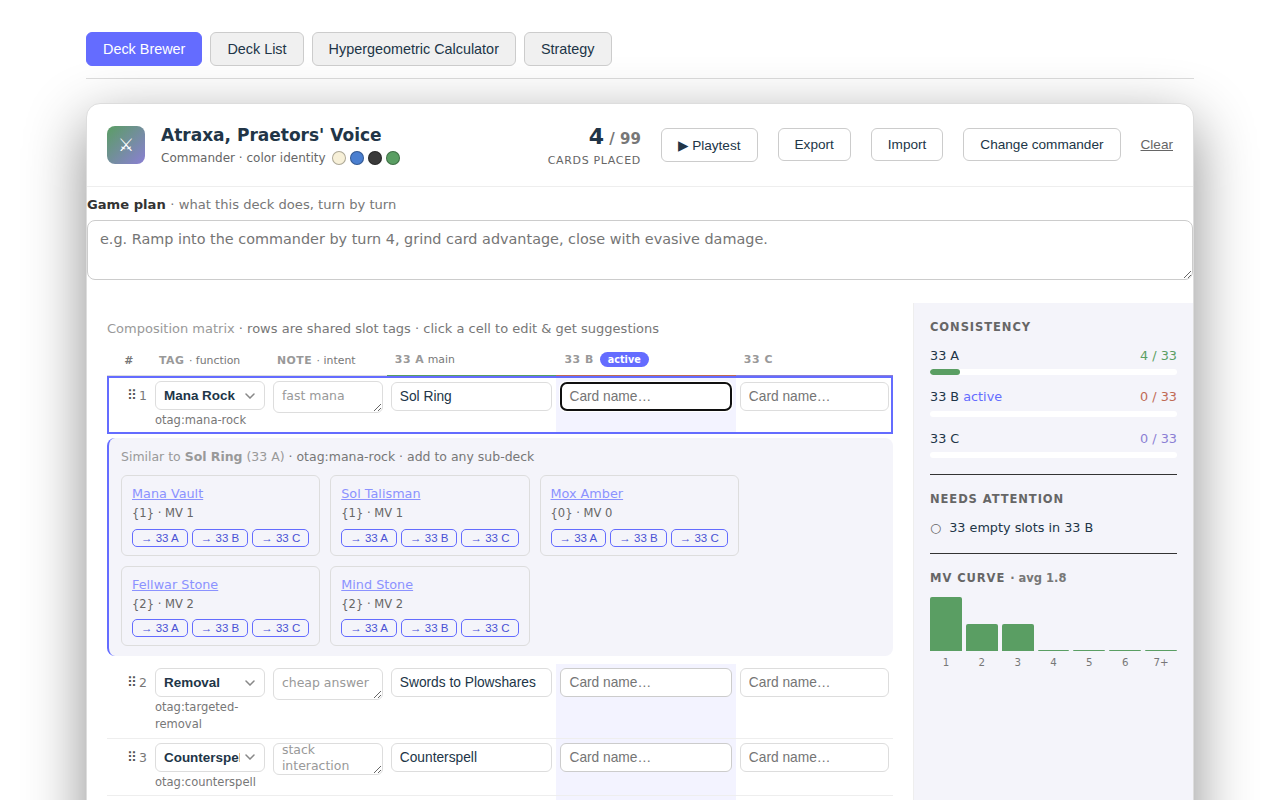
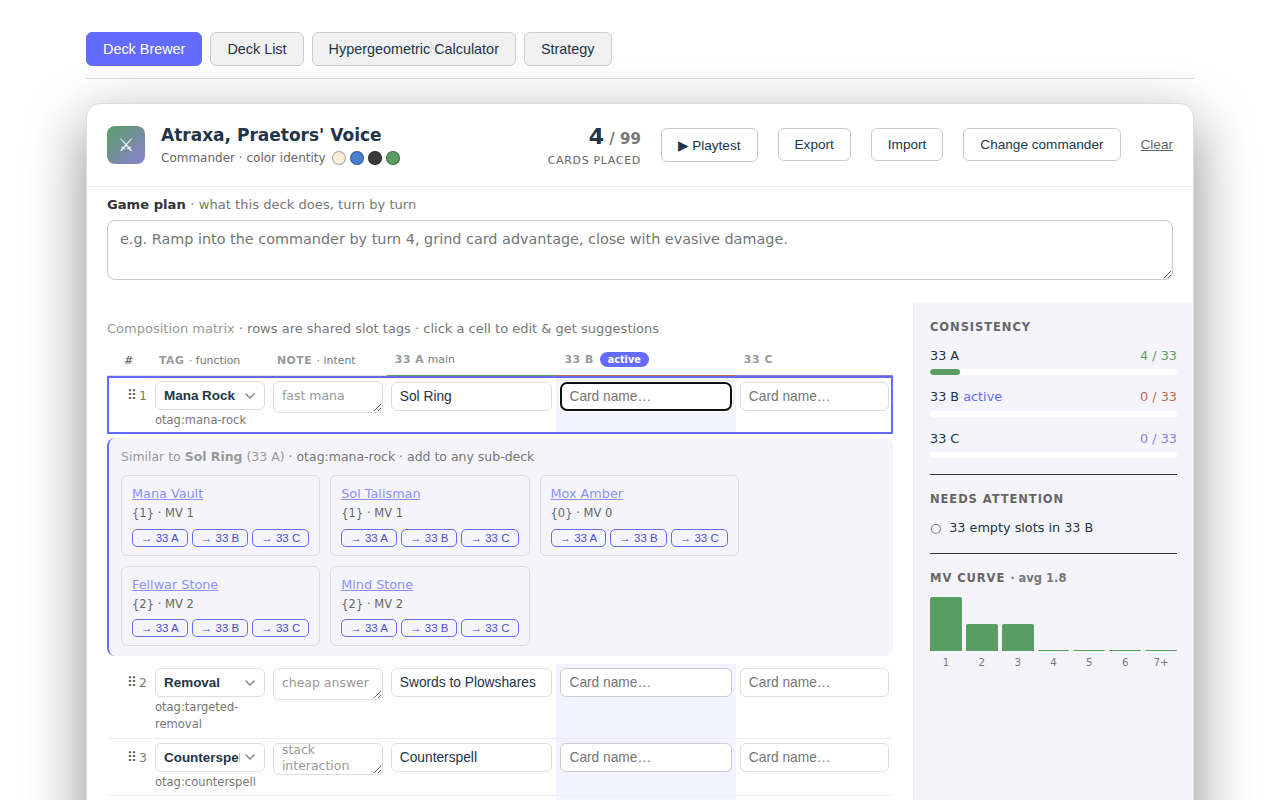
fix(css): inset the workspace sections that rendered flush to the card border
The "Game plan" label and its textarea ran edge-to-edge, touching the left and
right borders of the Brewer card (the textarea's square corners were even
clipped by the card's 14px radius). The workspace error message had the same
problem.

Cause: `.brew-workspace` deliberately carries no padding so section dividers
and the rail's background can span the full card width, which makes each
section responsible for insetting its own content. `.ws-header` (16px 20px)
and `.ws-matrix` (16px 20px) honor that; `.game-plan` was written with vertical
margins only (`margin: 8px 0 16px` — the middle value is the horizontal
margin) and `.error` with `margin-top` only, so neither ever got the inset.
Pre-existing since the game-plan feature landed (3454af2), not from the
spacing sweep — that pass only rounded existing lengths and skipped `0`.

- Add `--ws-inset` (= --space-20), the canonical section inset, so the rule is
  explicit and future sections can't miss it.
- Give `.game-plan` and the workspace error `padding: 0 var(--ws-inset)`.
  `.error` is shared with the Deck List tab, which sits inside the padded
  `.app` container, so the inset is scoped to `.brew-workspace > .error`
  rather than applied globally.
- Point `.ws-header` and `.ws-matrix` at the token (same value) so the card's
  content margin has one source.

`.ws-rail` intentionally keeps its tighter 16px inset — it's a visually
distinct tinted sidebar.
[…]

Changed region(s): [[0.0625, 0.25, 0.625, 0.3125]]

diff --git a/src/App.css b/src/App.css
@@ -59,6 +59,11 @@
   --space-20: 1.25rem;
   --space-24: 1.5rem;
   --space-32: 2rem;
+
+  /* Horizontal inset for a section inside the .brew-workspace card. The card
+     itself is full-bleed (no padding) so dividers and the rail's background can
+     span its full width — so every section must inset its own content. */
+  --ws-inset: var(--space-20);
 }
 
 /* Light theme: override only the tokens whose value changes. Kept in sync with
@@ -691,6 +696,12 @@ h3 {
 .error {
   color: #ff8a8a;
   margin-top: var(--space-16);
+}
+
+/* `.error` is shared with the Deck List tab, which sits inside the padded
+   `.app` container — so only the workspace copy needs the section inset. */
+.brew-workspace > .error {
+  padding: 0 var(--ws-inset);
 }
 
 .static-row {
@@ -1463,7 +1474,7 @@ h3 {
   align-items: center;
   justify-content: space-between;
   gap: var(--space-16);
-  padding: var(--space-16) var(--space-20);
+  padding: var(--space-16) var(--ws-inset);
   border-bottom: 1px solid var(--border-faint);
   flex-wrap: wrap;
 }
@@ -1558,7 +1569,7 @@ h3 {
 
 .ws-matrix {
   flex: 1;
-  padding: var(--space-16) var(--space-20);
+  padding: var(--space-16) var(--ws-inset);
   min-width: 0;
   overflow-x: auto;
 }
@@ -3413,6 +3424,7 @@ button.pt-cardback:hover {
 
 .game-plan {
   margin: var(--space-8) 0 var(--space-16);
+  padding: 0 var(--ws-inset);
 }
 
 .game-plan-label {
